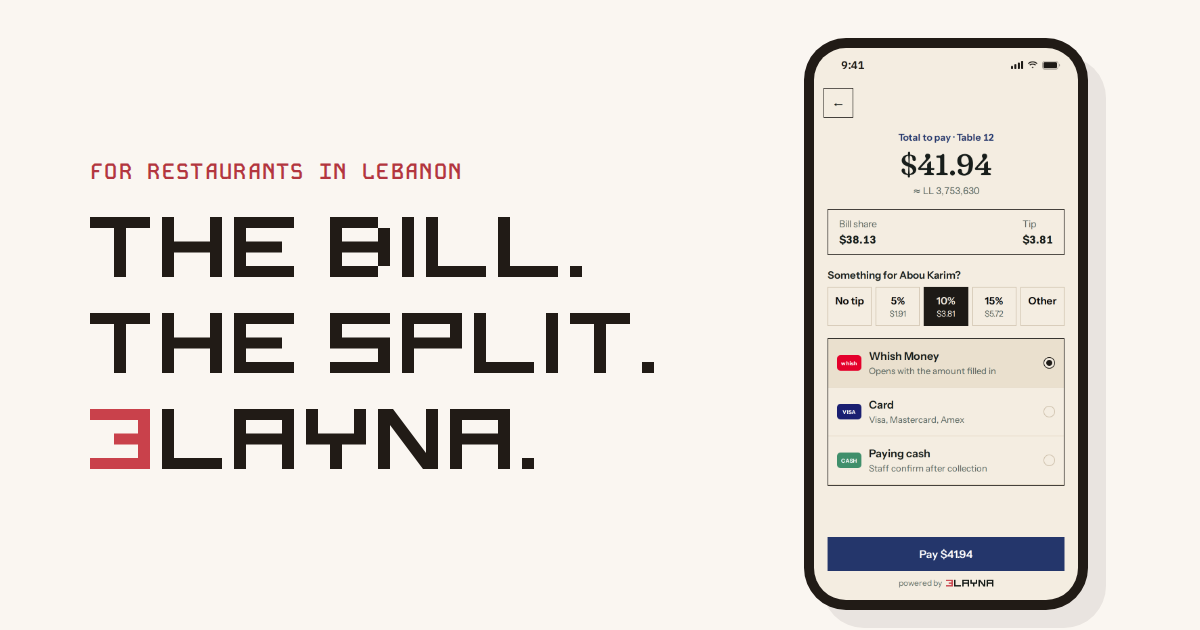
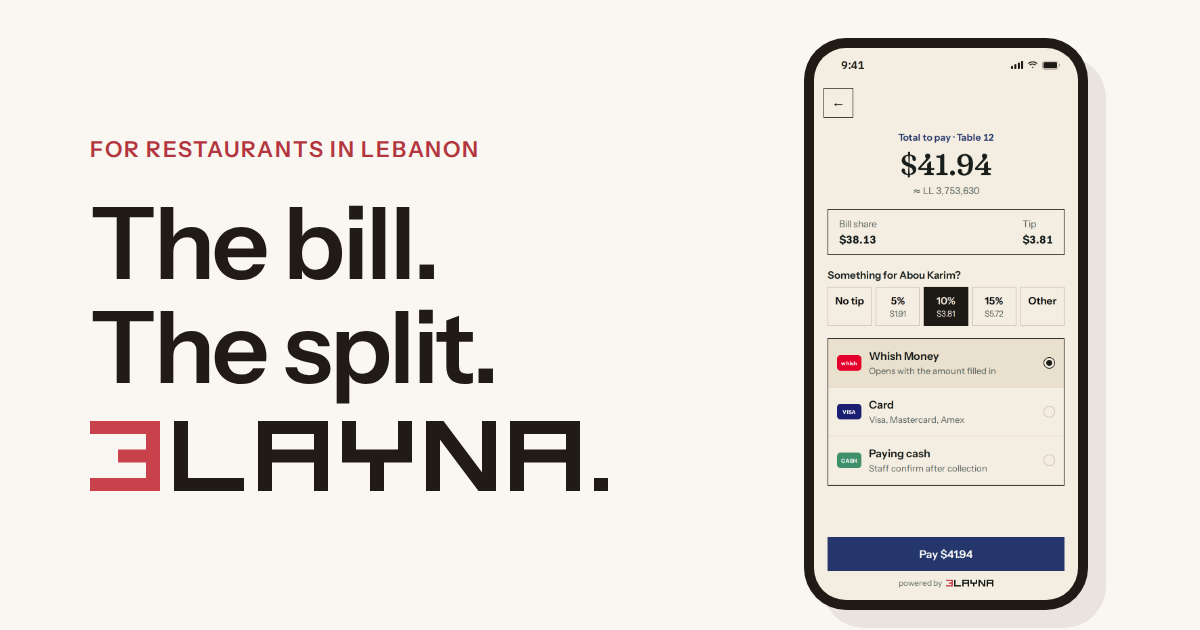
Website type: Instrument Sans for reading and labels, IBM Plex Sans Arabic for Arabic
Saira (squared bowls) and Kode Mono (pixel capitals) around the block logo read as
three tech voices at once: cold for restaurant owners, and Saira tires at body size.
The site now reads in one calm face, Instrument Sans (the Balat menu's text face),
for headings, text, buttons, figures and labels; the Arabic page in IBM Plex Sans
Arabic, the guest app's Arabic. The logo's capitals still set the name alone, and on
the Arabic page the name, علينا, stays in the Kufi of the mark (the only Kufi loaded).
Headings tighten to -0.02em, eyebrows open to 0.08em. Every homepage section still
fits one 1440 x 786 view (tallest 708 of 722 px). The share image follows the hero:
the two lines in Instrument Sans, the name in the logo's capitals. website.css?v=25.

Claude-Session: https://claude.ai/code/session_017mwzzhaL33iJSnVf4TVPSv

Changed region(s): [[0.0617, 0.4825, 0.555, 0.7841], [0.0617, 0.2111, 0.4933, 0.4524]]

diff --git a/website.css b/website.css
@@ -1,11 +1,11 @@
 /* Aalayna marketing site: index.html, numbers.html, book.html. */
 
-/* Three faces, each with one job, all on the logo's square geometry. Saira (square bowls, horizontal and vertical
-   strokes, like the logo's modules) sets everything you read: headings, text, buttons and figures; Noto Kufi Arabic,
-   geometric like the Kufi mark, sets the Arabic words. Kode Mono, square and
-   monospaced, sets the small labels you scan (eyebrows, step numbers, tags): the grid texture of the brand.
-   Aalayna Block, the logo's own capitals (tools/brand-font.js builds it from brand/logo.js), sets only the name
-   itself. Corners are square everywhere, like the logo; only the phones keep theirs, because phones have them. */
+/* One reading face, so the logo is the only loud thing on the page. Instrument Sans, a calm grotesque (the Balat
+   menu sets its text in it too), sets everything you read and scan: headings, text, buttons, figures and the small
+   labels; IBM Plex Sans Arabic, the guest app's Arabic, sets the Arabic words. Aalayna Block, the logo's own capitals
+   (tools/brand-font.js builds it from brand/logo.js), sets only the name itself, and on the Arabic page the name,
+   علينا, is in Noto Kufi Arabic, the Kufi of the mark. Corners are square everywhere, like the logo; only the phones
+   keep theirs, because phones have them. */
 @font-face{font-family:'Aalayna Block';src:url(brand/fonts/aalayna-block.woff) format('woff');font-weight:100 900;font-style:normal;font-display:swap}
 
 /* Tokens. Six type sizes only (14 / 16 / 19 / 30 / 54 / 67 px). Red has two jobs:
@@ -16,9 +16,9 @@
   --petrol:#173E43;--peach:#F6C39F;--on-petrol:#D7E3E2;--on-petrol-sub:#B9C7C4;
   --fs-small:.875rem;--fs-body:1rem;--fs-lead:1.1875rem;--fs-heading:1.875rem;--fs-display:3.375rem;--fs-hero:4.1875rem;
   --header-h:4rem;
-  --font-text:'Saira','Noto Kufi Arabic',system-ui,sans-serif;
-  --font-label:'Kode Mono',ui-monospace,monospace;
-  --font-name:'Aalayna Block','Kode Mono',ui-monospace,monospace;
+  --font-text:'Instrument Sans','IBM Plex Sans Arabic',system-ui,sans-serif;
+  --font-label:'Instrument Sans','IBM Plex Sans Arabic',system-ui,sans-serif;
+  --font-name:'Aalayna Block',ui-monospace,monospace;
 }
 
 /* Base */
@@ -29,8 +29,8 @@ button,a,input{touch-action:manipulation}button,input{font:inherit}a{color:inher
 button,a,summary{-webkit-tap-highlight-color:transparent}
 a:focus-visible,button:focus-visible,summary:focus-visible{outline:3px solid var(--brand);outline-offset:4px}
 h1,h2,h3,p,figure{margin:0}
-/* Headings in Saira, bold and a little tight; the name inside a heading keeps the logo's capitals. */
-h1,h2,h3{font-family:var(--font-text);font-weight:600;letter-spacing:-.01em;text-wrap:balance}
+/* Headings in Instrument Sans, semibold and a little tight; the name inside a heading keeps the logo's capitals. */
+h1,h2,h3{font-family:var(--font-text);font-weight:600;letter-spacing:-.02em;text-wrap:balance}
 .name{font-family:var(--font-name);font-weight:400;font-synthesis:none;letter-spacing:0}
 h2{font-size:var(--fs-heading);line-height:1.15}
 h3{font-size:var(--fs-lead);line-height:1.3}
@@ -41,7 +41,7 @@ img{max-width:100%}
    under the header; a click in the menu lands the section right under it, its own padding giving the air. */
 .section{padding-block:clamp(2.5rem,7vh,5rem)}
 section[id],main[id]{scroll-margin-top:var(--header-h)}
-.eyebrow{color:var(--brand-text);font-family:var(--font-label);font-size:var(--fs-small);font-weight:600;letter-spacing:.06em;text-transform:uppercase;margin-bottom:1rem}
+.eyebrow{color:var(--brand-text);font-family:var(--font-label);font-size:var(--fs-small);font-weight:600;letter-spacing:.08em;text-transform:uppercase;margin-bottom:1rem}
 .number{font-family:var(--font-label);font-size:var(--fs-small);font-weight:600;color:var(--brand-text)}
 .skip{position:absolute;top:-6rem;left:1rem;background:var(--surface);padding:.7rem;z-index:100}.skip:focus{top:.5rem}
 /* Read out, not shown: the hero spells the name 3LAYNA on screen and Aalayna to a screen reader. */
@@ -195,14 +195,14 @@ section[id],main[id]{scroll-margin-top:var(--header-h)}
 .section-cta{margin-top:2.5rem}
 .faq .section-cta{margin-top:2rem}
 
-/* Arabic (ar/): the page runs right to left in Noto Kufi Arabic, geometric like the Kufi mark. Arabic letters join, so
+/* Arabic (ar/): the page runs right to left in IBM Plex Sans Arabic, the guest app's Arabic. Arabic letters join, so
    nothing is tracked or set in capitals, and the lines are opened up for the taller script. The name in the hero is
-   علينا itself, in the same face. */
-[lang="ar"]{--font-text:'Noto Kufi Arabic','Saira',system-ui,sans-serif;--font-label:'Noto Kufi Arabic','Kode Mono',system-ui,sans-serif;font-family:var(--font-text)}
+   علينا itself, in Noto Kufi Arabic, the Kufi of the mark, as the Latin name is in the logo's capitals. */
+[lang="ar"]{--font-text:'IBM Plex Sans Arabic','Instrument Sans',system-ui,sans-serif;--font-label:'IBM Plex Sans Arabic','Instrument Sans',system-ui,sans-serif;font-family:var(--font-text)}
 [lang="ar"] body{line-height:1.85}
 [lang="ar"] :is(h1,h2,h3,.eyebrow,.number,.btn,.name){letter-spacing:0;text-transform:none}
 [lang="ar"] h1,[lang="ar"] h2{line-height:1.35}
-[lang="ar"] .name{font-family:var(--font-text);font-weight:700}
+[lang="ar"] .name{font-family:'Noto Kufi Arabic','IBM Plex Sans Arabic',sans-serif;font-weight:700}
 [lang="ar"] .site-nav .logo svg{height:2.75rem}   /* the Kufi mark is square and lighter than the Block */
 [dir="rtl"] .calc-link::after{content:' \2190'}
 

diff --git a/fr/index.html b/fr/index.html
@@ -24,9 +24,9 @@
 <link rel="alternate" hreflang="x-default" href="https://aalayna.com/">
 <link rel="preconnect" href="https://fonts.googleapis.com">
 <link rel="preconnect" href="https://fonts.gstatic.com" crossorigin>
-<link href="https://fonts.googleapis.com/css2?family=Saira:wght@400;500;600;700&family=Noto+Kufi+Arabic:wght@400;500;600;700&family=Kode+Mono:wght@500;600&display=swap" rel="stylesheet">
+<link href="https://fonts.googleapis.com/css2?family=Instrument+Sans:wght@400;500;600;700&family=IBM+Plex+Sans+Arabic:wght@400;600&display=swap" rel="stylesheet">
 <link rel="preload" href="../brand/fonts/aalayna-block.woff" as="font" type="font/woff" crossorigin>
-<link rel="stylesheet" href="../website.css?v=24">
+<link rel="stylesheet" href="../website.css?v=25">
 <link rel="icon" href="../brand/icons/icon-32.png" sizes="32x32">
 <link rel="icon" href="../brand/svg/3layna/icon.svg" type="image/svg+xml">
 <link rel="apple-touch-icon" href="../brand/icons/icon-180.png">
@@ -127,7 +127,7 @@ var f=v.parentNode,pauseLabel=p.getAttribute('aria-label'),playLabel=p.getAttrib
   </section>
   <section class="contact" id="contact"><div class="wrap"><p class="eyebrow">Ahla w sahla</p><h2>Parlez-nous de votre restaurant.</h2><p>Dites-nous ce dont votre équipe a besoin. Nous vous aiderons à préparer la suite.</p><div class="actions"><a class="btn" data-track="booking_click" data-placement="footer" href="../book.html">Réserver une démo</a><a class="btn outline" data-track="whatsapp_click" data-placement="footer" href="https://wa.me/33665745963?text=Bonjour%2C%20je%20souhaite%20parler%20d%E2%80%99Aalayna%20pour%20mon%20restaurant">Écrivez-nous sur WhatsApp</a></div></div></section>
 </main>
-<footer class="wrap footer"><a class="logo" href="index.html" aria-label="Accueil Aalayna"><svg viewBox="0 0 500 120" aria-hidden="true" focusable="false"><path class="logo-ink" d="M0 0L10 0L10 90.8L20 90.8L20 50L30 50L30 90.8L40 90.8L40 50L50 50L50 90.8L60 90.8L60 0L70 0L70 90.8L80 90.8L80 50L120 50L120 59.2L90 59.2L90 90.8L120 90.8L120 100L0 100ZM210 50L220 50L220 90.8L260 90.8L260 100L210 100ZM270 50L320 50L320 100L310 100L310 79.6L280 79.6L280 100L270 100ZM280 59.2L280 70.4L310 70.4L310 59.2ZM330 50L340 50L340 70.4L370 70.4L370 50L380 50L380 79.6L360 79.6L360 100L350 100L350 79.6L330 79.6ZM390 50L400 50L400 100L390 100ZM430 50L440 50L440 100L430 100ZM390 50L402.5 50L440 100L427.5 100ZM450 50L500 50L500 100L490 100L490 79.6L460 79.6L460 100L450 100ZM460 59.2L460 70.4L490 70.4L490 59.2Z"/><path class="logo-red" d="M20 30L30 30L30 40L20 40ZM30 110L40 110L40 120L30 120ZM50 110L60 110L60 120L50 120ZM150 50L200 50L200 100L150 100L150 90.8L190 90.8L190 79.6L170 79.6L170 70.4L190 70.4L190 59.2L150 59.2Z"/></svg></a><p>© 2026 Aalayna · Pour les restaurants au Liban</p><a href="../" hreflang="en" lang="en" aria-label="EN, English version" style="display:inline-flex;align-items:center;min-width:44px;min-height:44px;font-size:var(--fs-small);font-weight:600;text-underline-offset:.2rem">EN</a><a href="../ar/" hreflang="ar" lang="ar" aria-label="العربية" style="display:inline-flex;align-items:center;min-width:44px;min-height:44px;font-family:'Noto Kufi Arabic',sans-serif;font-size:var(--fs-small);font-weight:600;text-underline-offset:.2rem">عربي</a><a data-track="whatsapp_click" data-placement="footer_contact" href="https://wa.me/33665745963?text=Bonjour%2C%20j%E2%80%99aimerais%20en%20savoir%20plus%20sur%20Aalayna">Écrivez-nous sur WhatsApp</a></footer>
+<footer class="wrap footer"><a class="logo" href="index.html" aria-label="Accueil Aalayna"><svg viewBox="0 0 500 120" aria-hidden="true" focusable="false"><path class="logo-ink" d="M0 0L10 0L10 90.8L20 90.8L20 50L30 50L30 90.8L40 90.8L40 50L50 50L50 90.8L60 90.8L60 0L70 0L70 90.8L80 90.8L80 50L120 50L120 59.2L90 59.2L90 90.8L120 90.8L120 100L0 100ZM210 50L220 50L220 90.8L260 90.8L260 100L210 100ZM270 50L320 50L320 100L310 100L310 79.6L280 79.6L280 100L270 100ZM280 59.2L280 70.4L310 70.4L310 59.2ZM330 50L340 50L340 70.4L370 70.4L370 50L380 50L380 79.6L360 79.6L360 100L350 100L350 79.6L330 79.6ZM390 50L400 50L400 100L390 100ZM430 50L440 50L440 100L430 100ZM390 50L402.5 50L440 100L427.5 100ZM450 50L500 50L500 100L490 100L490 79.6L460 79.6L460 100L450 100ZM460 59.2L460 70.4L490 70.4L490 59.2Z"/><path class="logo-red" d="M20 30L30 30L30 40L20 40ZM30 110L40 110L40 120L30 120ZM50 110L60 110L60 120L50 120ZM150 50L200 50L200 100L150 100L150 90.8L190 90.8L190 79.6L170 79.6L170 70.4L190 70.4L190 59.2L150 59.2Z"/></svg></a><p>© 2026 Aalayna · Pour les restaurants au Liban</p><a href="../" hreflang="en" lang="en" aria-label="EN, English version" style="display:inline-flex;align-items:center;min-width:44px;min-height:44px;font-size:var(--fs-small);font-weight:600;text-underline-offset:.2rem">EN</a><a href="../ar/" hreflang="ar" lang="ar" aria-label="العربية" style="display:inline-flex;align-items:center;min-width:44px;min-height:44px;font-family:'IBM Plex Sans Arabic',sans-serif;font-size:var(--fs-small);font-weight:600;text-underline-offset:.2rem">عربي</a><a data-track="whatsapp_click" data-placement="footer_contact" href="https://wa.me/33665745963?text=Bonjour%2C%20j%E2%80%99aimerais%20en%20savoir%20plus%20sur%20Aalayna">Écrivez-nous sur WhatsApp</a></footer>
 <script>document.addEventListener('click',function(e){document.querySelectorAll('details.lang[open]').forEach(function(d){if(!d.contains(e.target))d.removeAttribute('open');});});</script>
 </body>
 </html>

diff --git a/tools/brand.js b/tools/brand.js
@@ -158,23 +158,24 @@ function typeLine(text, u, x, y) {
   return { ink, red };
 }
 function shareHtml() {
-  const C = Logo.COLORS, u = 12, pitch = 8 * u, lines = ['The bill.', 'The split.', Logo.NAME + '.'];
-  let ink = '', red = '';
-  lines.forEach((t, i) => { const l = typeLine(t, u, 0, i * pitch); ink += l.ink; red += l.red; });
-  const h = 2 * pitch + 5 * u, file = f => 'file://' + path.join(root, f);
+  // As the site's hero: the two lines in the site's face, the name alone in the logo's capitals (its cap height).
+  const C = Logo.COLORS, u = 14, name = Logo.NAME + '.', l = typeLine(name, u, 0, 0), file = f => 'file://' + path.join(root, f);
+  const w = num(typeWidthOf(name) * u), h = num(5 * u);
   return `<!doctype html><html><head><meta charset="utf-8">
-<link href="https://fonts.googleapis.com/css2?family=Kode+Mono:wght@600&display=block" rel="stylesheet">
+<link href="https://fonts.googleapis.com/css2?family=Instrument+Sans:wght@600&display=block" rel="stylesheet">
 <style>
 html,body{margin:0}
 body{position:relative;width:1200px;height:630px;overflow:hidden;background:${C.cream}}
 .copy{position:absolute;left:90px;top:50%;transform:translateY(-50%)}
-.eyebrow{margin:0 0 34px;font:600 22px/1 'Kode Mono',monospace;letter-spacing:.06em;text-transform:uppercase;color:#B3363F}
-.copy svg{display:block}
+.eyebrow{margin:0 0 30px;font:600 22px/1 'Instrument Sans',sans-serif;letter-spacing:.08em;text-transform:uppercase;color:#B3363F}
+.head{margin:0;font:600 100px/1.04 'Instrument Sans',sans-serif;letter-spacing:-.025em;color:${C.ink}}
+.copy svg{display:block;margin-top:22px}
 .phone{position:absolute;left:804px;top:38px;width:264px;height:552px;padding:10px;border-radius:42px;background:${C.ink};box-shadow:18px 18px 0 rgba(33,27,22,.08)}
 .phone img{display:block;width:100%;height:100%;border-radius:32px;object-fit:cover;object-position:50% 0}
 </style></head><body>
 <div class="copy"><p class="eyebrow">For restaurants in Lebanon</p>
-<svg width="${num(typeWidthOf(lines[1]) * u)}" height="${num(h)}" viewBox="0 0 ${num(typeWidthOf(lines[1]) * u)} ${num(h)}"><path fill="${C.ink}" d="${ink}"/><path fill="${C.red}" d="${red}"/></svg></div>
+<p class="head">The bill.<br>The split.</p>
+<svg width="${w}" height="${h}" viewBox="0 0 ${w} ${h}"><path fill="${C.ink}" d="${l.ink}"/><path fill="${C.red}" d="${l.red}"/></svg></div>
 <div class="phone"><img src="${file('images/guest-pay.png')}" alt=""></div>
 </body></html>`;
 }

diff --git a/ar/index.html b/ar/index.html
@@ -24,9 +24,9 @@
 <link rel="alternate" hreflang="x-default" href="https://aalayna.com/">
 <link rel="preconnect" href="https://fonts.googleapis.com">
 <link rel="preconnect" href="https://fonts.gstatic.com" crossorigin>
-<link href="https://fonts.googleapis.com/css2?family=Saira:wght@400;500;600;700&family=Noto+Kufi+Arabic:wght@400;500;600;700&family=Kode+Mono:wght@500;600&display=swap" rel="stylesheet">
+<link href="https://fonts.googleapis.com/css2?family=Instrument+Sans:wght@400;500;600;700&family=IBM+Plex+Sans+Arabic:wght@400;500;600;700&family=Noto+Kufi+Arabic:wght@700&display=swap" rel="stylesheet">
 <link rel="preload" href="../brand/fonts/aalayna-block.woff" as="font" type="font/woff" crossorigin>
-<link rel="stylesheet" href="../website.css?v=24">
+<link rel="stylesheet" href="../website.css?v=25">
 <link rel="icon" href="../brand/icons/icon-32.png" sizes="32x32">
 <link rel="icon" href="../brand/svg/3layna/icon.svg" type="image/svg+xml">
 <link rel="apple-touch-icon" href="../brand/icons/icon-180.png">

diff --git a/index.html b/index.html
@@ -24,9 +24,9 @@
 <link rel="alternate" hreflang="x-default" href="https://aalayna.com/">
 <link rel="preconnect" href="https://fonts.googleapis.com">
 <link rel="preconnect" href="https://fonts.gstatic.com" crossorigin>
-<link href="https://fonts.googleapis.com/css2?family=Saira:wght@400;500;600;700&family=Noto+Kufi+Arabic:wght@400;500;600;700&family=Kode+Mono:wght@500;600&display=swap" rel="stylesheet">
+<link href="https://fonts.googleapis.com/css2?family=Instrument+Sans:wght@400;500;600;700&family=IBM+Plex+Sans+Arabic:wght@400;600&display=swap" rel="stylesheet">
 <link rel="preload" href="brand/fonts/aalayna-block.woff" as="font" type="font/woff" crossorigin>
-<link rel="stylesheet" href="website.css?v=24">
+<link rel="stylesheet" href="website.css?v=25">
 <link rel="icon" href="brand/icons/icon-32.png" sizes="32x32">
 <link rel="icon" href="brand/svg/3layna/icon.svg" type="image/svg+xml">
 <link rel="apple-touch-icon" href="brand/icons/icon-180.png">

diff --git a/book.html b/book.html
@@ -17,9 +17,9 @@
 <meta name="twitter:card" content="summary_large_image">
 <link rel="preconnect" href="https://fonts.googleapis.com">
 <link rel="preconnect" href="https://fonts.gstatic.com" crossorigin>
-<link href="https://fonts.googleapis.com/css2?family=Saira:wght@400;500;600;700&family=Noto+Kufi+Arabic:wght@400;500;600;700&family=Kode+Mono:wght@500;600&display=swap" rel="stylesheet">
+<link href="https://fonts.googleapis.com/css2?family=Instrument+Sans:wght@400;500;600;700&display=swap" rel="stylesheet">
 <link rel="preload" href="brand/fonts/aalayna-block.woff" as="font" type="font/woff" crossorigin>
-<link rel="stylesheet" href="website.css?v=24">
+<link rel="stylesheet" href="website.css?v=25">
 <link rel="icon" href="brand/icons/icon-32.png" sizes="32x32">
 <link rel="icon" href="brand/svg/3layna/icon.svg" type="image/svg+xml">
 <link rel="apple-touch-icon" href="brand/icons/icon-180.png">

diff --git a/numbers.html b/numbers.html
@@ -18,9 +18,9 @@
 <meta name="twitter:card" content="summary_large_image">
 <link rel="preconnect" href="https://fonts.googleapis.com">
 <link rel="preconnect" href="https://fonts.gstatic.com" crossorigin>
-<link href="https://fonts.googleapis.com/css2?family=Saira:wght@400;500;600;700&family=Kode+Mono:wght@500;600&display=swap" rel="stylesheet">
+<link href="https://fonts.googleapis.com/css2?family=Instrument+Sans:wght@400;500;600;700&display=swap" rel="stylesheet">
 <link rel="preload" href="brand/fonts/aalayna-block.woff" as="font" type="font/woff" crossorigin>
-<link rel="stylesheet" href="website.css?v=24">
+<link rel="stylesheet" href="website.css?v=25">
 <link rel="icon" href="brand/icons/icon-32.png" sizes="32x32">
 <link rel="icon" href="brand/svg/3layna/icon.svg" type="image/svg+xml">
 <link rel="apple-touch-icon" href="brand/icons/icon-180.png">
